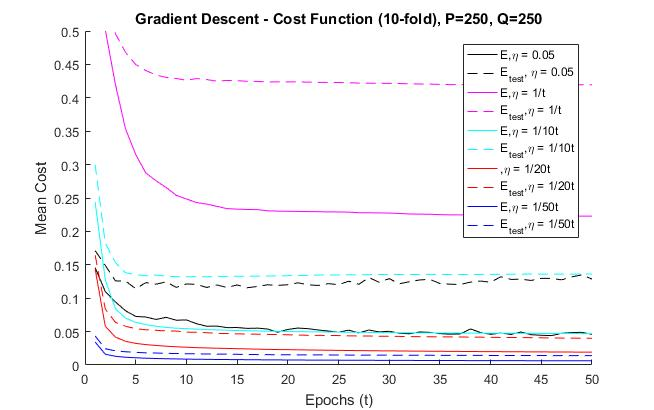
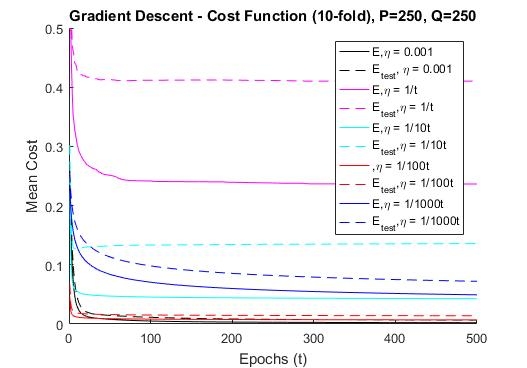
final changes, ready for submitting

Changed region(s): [[0.0304, 0.0299, 0.9412, 1.0], [0.2125, 0.3886, 0.2429, 0.4484], [0.2125, 0.1495, 0.2429, 0.1793]]

diff --git a/lab_files/lab2/main.m b/lab_files/lab2/main.m
@@ -31,20 +31,18 @@ close all
 clc
 
 alphas = 0.1:0.1:5;
-n_D = 10;
-nMax = 200;
+n_D = 50;
+nMax = 10000;
 N = 50;
 k_max = zeros(2,length(alphas));
 for i = 1:length(alphas)
     P = int8(N*alphas(i));
     for j = 1:n_D
         [data, labels] = data_matrix2(P,N,0);
-        [~, k] = minover(nMax, data, labels);
-        k_max(1,i) = k_max(1,i) + k;
-        
-        [data, labels] = data_matrix(P,N);
+        k_max(1,i) = k_max(1,i) + calc_k_min(ones(1,N),data,labels);
         [~, k] = minover(nMax, data, labels);
         k_max(2,i) = k_max(2,i) + k;
+        
     end
 end
 k_max = k_max / n_D;
@@ -54,7 +52,7 @@ txt = sprintf('Perceptron learning curve - N = %g, n_D = %g, n_{max} = %g', N, n
 title(txt)
 xlabel('\alpha (P/N)')
 ylabel('Maximum stability')
-legend('Minover - Teacher outputs', 'Minover - Random output')
+legend('Minover - Teacher stability', 'Minover - Student stability')
 
 %% Comparison with rosenblatt (Bonus 2)
 clear all
@@ -95,7 +93,7 @@ close all
 clc
 
 alphas = 0.1:0.1:5;
-nD = 10;
+n_D = 10;
 nMax = 500;
 N = 20;
 lambda = 0.0:0.1:0.5;
@@ -104,18 +102,19 @@ errs = zeros(length(lambda), length(alphas));
 for i = 1:length(alphas)
     P = int8(N*alphas(i));
     for j = 1:length(lambda);
-        for k = 1:nD
+        for k = 1:n_D
             [data, labels] = data_matrix2(P,N,lambda(j));
             w = minover(nMax, data, labels);
             errs(j,i) = errs(j,i) + calc_gen_error(w); 
         end
     end
 end
-errs = errs / nD;
+errs = errs / n_D;
 
 plot(alphas,errs)
 
-title('Minover learning curve - N = 20, n_D = 10, n_{max} = 200')
+txt = sprintf('Perceptron learning curve - N = %g, n_D = %g, n_{max} = %g', N, n_D, nMax);
+title(txt)
 xlabel('\alpha (P/N)')
 ylabel('Generalization error')
 legend('lambda = 0.0', 'lambda = 0.1', 'lambda = 0.2', 'lambda = 0.3', 'lambda = 0.4', 'lambda = 0.5', 'Location', 'southwest')

diff --git a/lab_files/lab3/main.m b/lab_files/lab3/main.m
@@ -4,7 +4,7 @@ close all
 
 load data3.mat
 
-t_max = 50;
+t_max = 500;
 P = 250;
 Q = 250;
 [E,Et] = grad_desc(t_max, xi(:,1:P), tau(1:P), xi(:,P+1:P+Q), tau(P+1:P+Q));
@@ -13,7 +13,6 @@ res = [E;Et];
 
 figure
 plot(t,res)
-ylim([0 0.4])
 txt = sprintf('Gradient Descent - Cost Function (single training), P=%g, Q=%g', P,Q);
 title(txt)
 xlabel('Epochs (t)')
@@ -27,7 +26,7 @@ close all
 
 load data3.mat
 
-t_max = 50;
+t_max = 500;
 folds = 10;
 
 dat_size=size(xi,2)/(2*folds);
@@ -69,7 +68,7 @@ close all
 
 load data3.mat
 
-t_max = 50;
+t_max = 500;
 folds = 10;
 
 P = [20, 50, 100, 200, 500, 1000, 2000];
@@ -102,7 +101,7 @@ for x = 1:size(P,2);
     res = [E_res;Et_res];
     figure
     plot(t,res)
-    ylim([0 0.4])
+    %ylim([0 0.4])
     
     txt = sprintf('Gradient Descent - Cost Function (10-fold), P=%g, Q=250', train_size);
     title(txt)
@@ -119,9 +118,9 @@ close all
 load data3.mat
 
 a = 1;
-b = [1,10,20,50];
+b = [1,10,100,1000];
 
-t_max = 50;
+t_max = 500;
 folds = 10;
 
 dat_size=size(xi,2)/(2*folds);
@@ -177,7 +176,7 @@ txt = sprintf('Gradient Descent - Cost Function (10-fold), P=%g, Q=%g', dat_size
 title(txt)
 xlabel('Epochs (t)')
 ylabel('Mean Cost')
-legend('E,\eta = 0.05', 'E_{test}, \eta = 0.05','E,\eta = 1/t', 'E_{test},\eta = 1/t','E,\eta = 1/10t', 'E_{test},\eta = 1/10t',',\eta = 1/20t', 'E_{test},\eta = 1/20t','E,\eta = 1/50t', 'E_{test},\eta = 1/50t')
+legend('E,\eta = 0.001', 'E_{test}, \eta = 0.001',',\eta = 1/100t', 'E_{test},\eta = 1/100t')
     
 %% Bonus 2 extra, FOR THIS EXPERIMENT > CHANGE THE LEARNING RATE BY HAND IN GRAD_DESC.M
 % Constant learning rate vs time-dependent learning rate

diff --git a/lab_files/lab3/grad_desc.m b/lab_files/lab3/grad_desc.m
@@ -13,7 +13,7 @@ end
     
 
 
-learnrate = 0.05;
+learnrate = 0.001;
 P = size(train_data,2);
 Q = size(test_data,2);
 N = size(train_data,1);
@@ -57,14 +57,12 @@ if PLOT
     figure
     bar(w1)
     title('Gradient Descent (single fold)- Weight vector w_1')
-    ylim([-1.2 1.2])
     xlabel('Dimension')
     ylabel('weight')
 
     figure
     bar(w2)
     title('Gradient Descent (single fold)- Weight vector w_2')
-    ylim([-1.2 1.2  ])
     xlabel('Dimension')
     ylabel('weight')
 end
